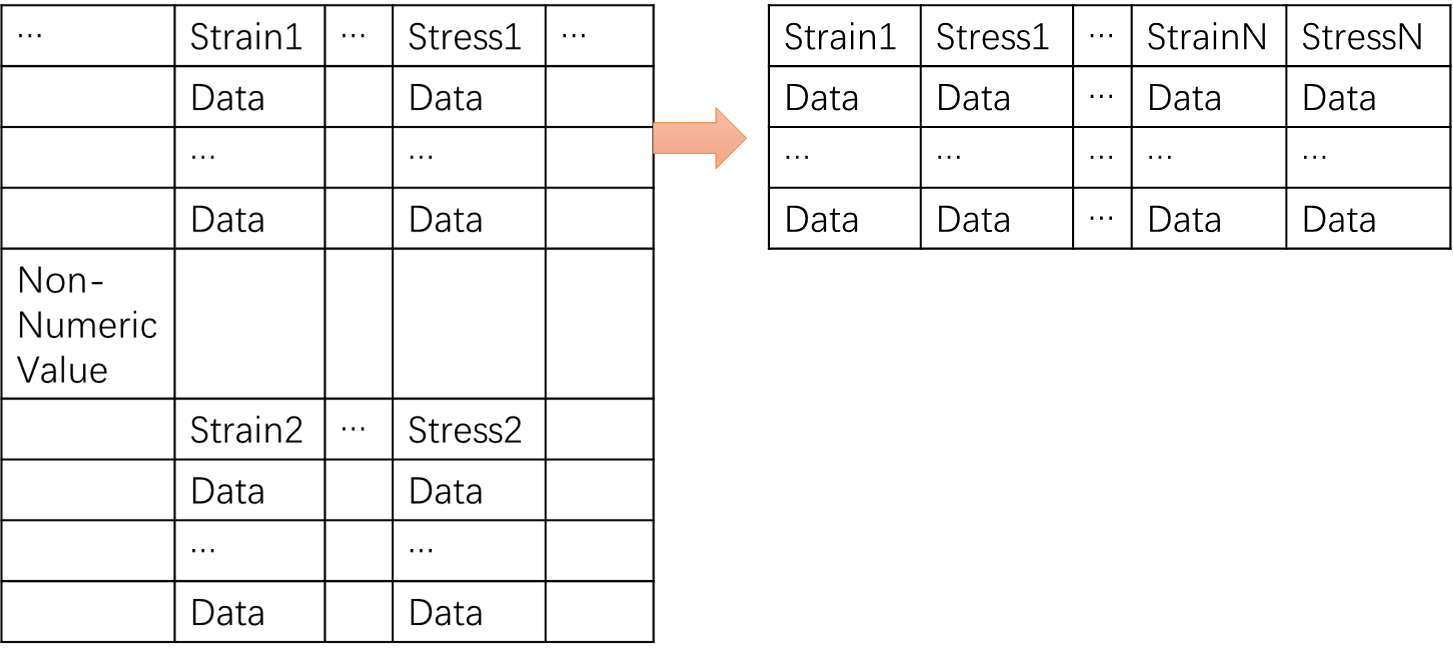
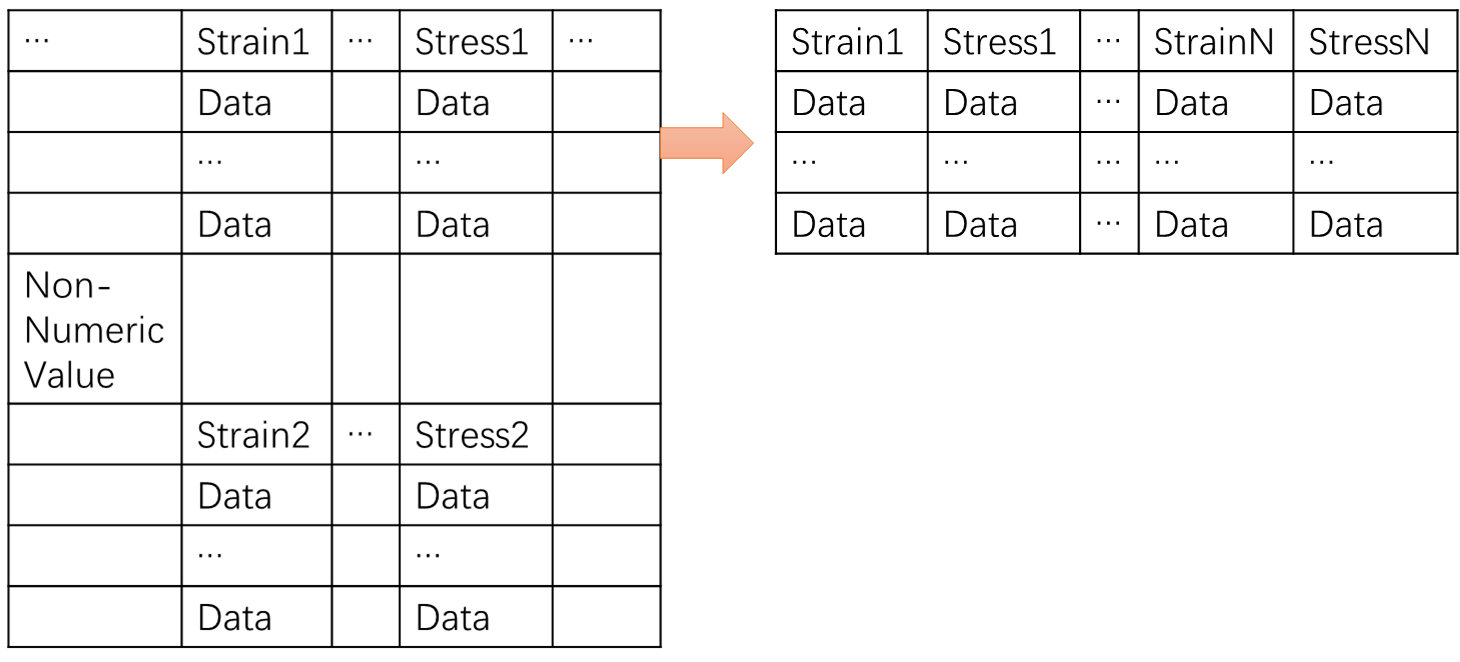
Update ReadMe

Changed region(s): [[0.0, 0.0, 1.0, 1.0]]

diff --git a/README.md b/README.md
@@ -19,7 +19,7 @@ Some POST code for materials science
 
 **Usage:**
           See in the code(code comments in chinese)
-      
+ <img src="https://github.com/hitliaomq/MaterialPOST/blob/master/StrainStress-Sep/Image/StrainStressSep.png" width="487" height="221"></img>
 # Author Information
 *Liao Mingqing(廖名情)* 
 
